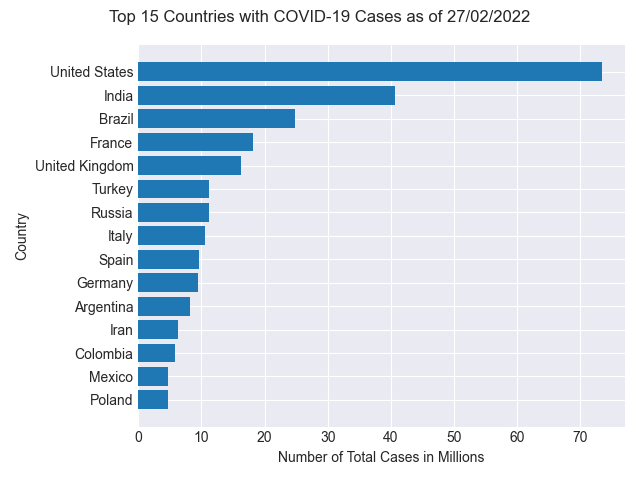
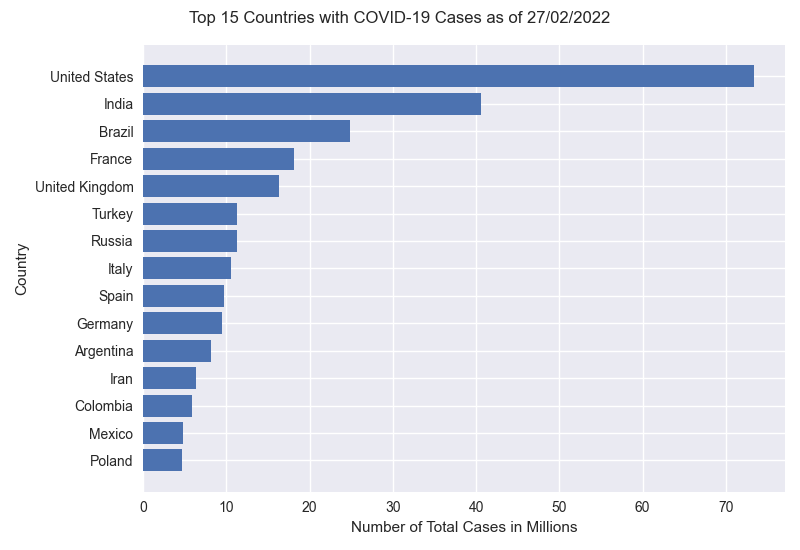
COVID-19 Cases by continents

diff --git a/main.py b/main.py
@@ -9,7 +9,7 @@ data = pd.read_csv('data/owid-covid-data.csv')
 # TOP 15 Countries with COVID-19 Cases
 topCountries = data.loc[~(data['continent'].isna())].groupby('location').tail(1).sort_values(by='total_cases',ascending=True).dropna(subset=['total_cases']).tail(15)
 
-plt.style.use('seaborn-darkgrid')
+plt.style.use('seaborn')
 plt.barh(topCountries['location'],topCountries['total_cases']/1000000)
 
 plt.suptitle('Top 15 Countries with COVID-19 Cases as of 27/02/2022')
@@ -20,4 +20,17 @@ plt.grid(visible=True, which='major', axis='both')
 plt.tight_layout()
 
 plt.savefig('figures/topCountries.png')
-plt.show()
+plt.close()
+
+# COVID-19 Cases by Continents
+plt.style.use('seaborn')
+continents = set(data['continent'])
+explode = (0.03,0.03,0.03,0.03,0.03,0.03)
+covidInContinents = data.loc[(data['location'].isin(continents))].groupby('location').tail(1).sort_values(by='total_cases')
+plt.pie(covidInContinents['total_cases'],labels=covidInContinents['location'],autopct='%.1f%%', explode=explode)
+
+plt.suptitle('COVID-19 Cases by continents as of 27/02/2022')
+plt.tight_layout()
+
+plt.savefig('figures/byContinents.png')
+plt.close()
